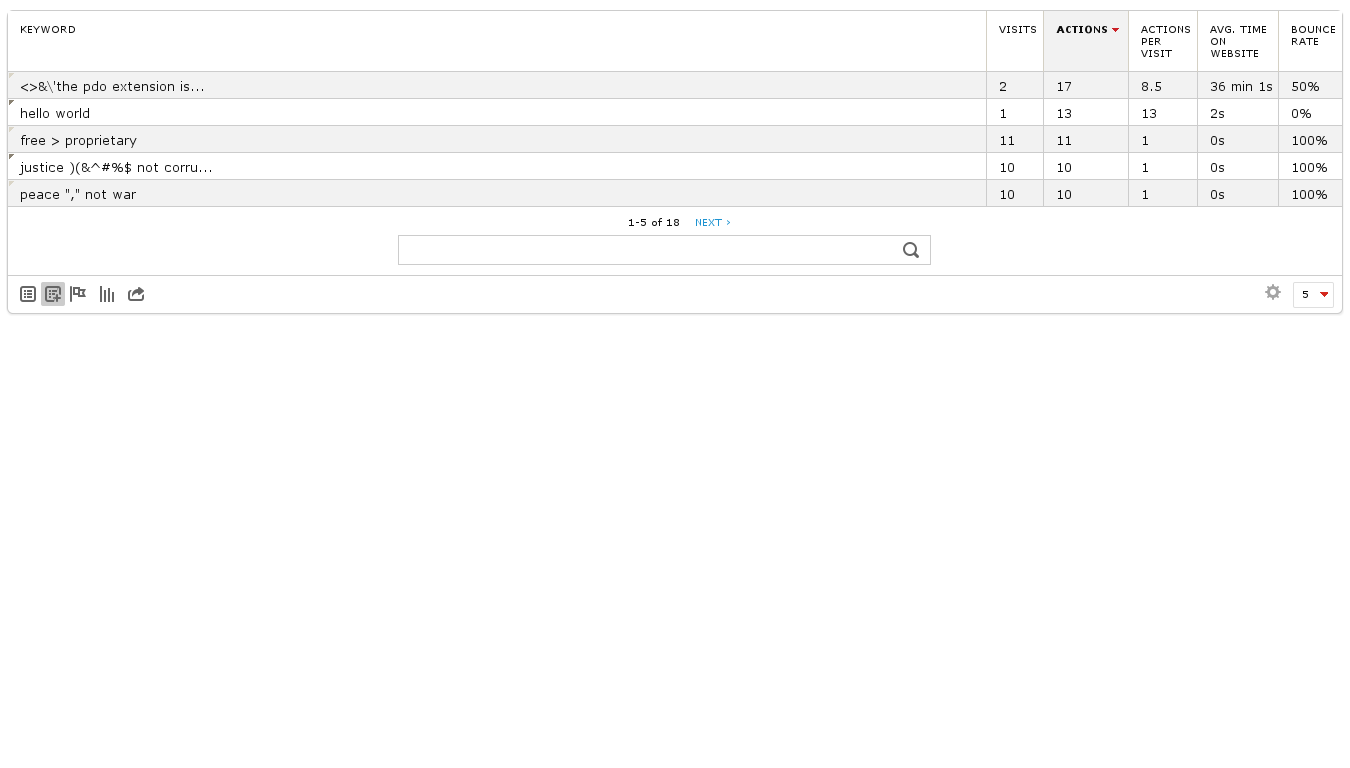
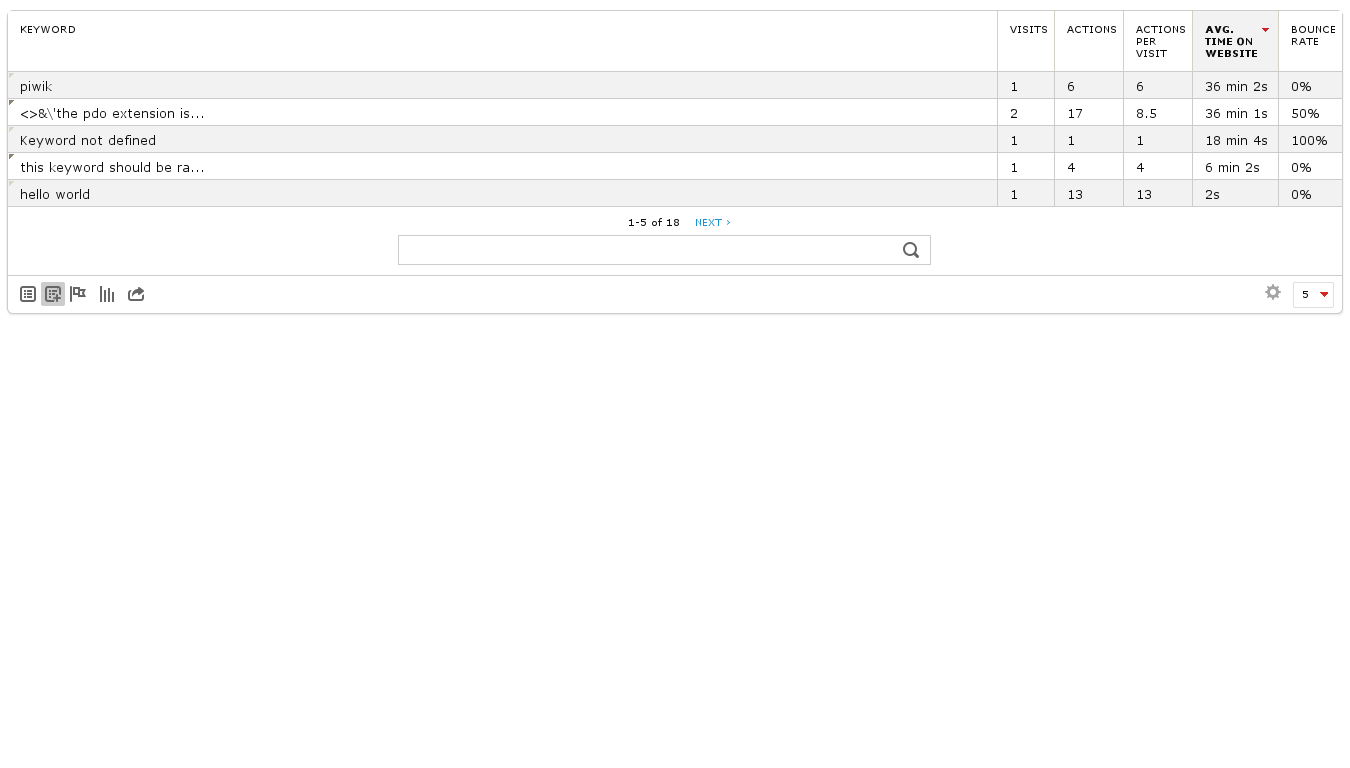
Refs #4189, test for processed column sort in ViewDataTableTest instead of UIIntegrationTest.

Changed region(s): [[0.7467, 0.0312, 0.9956, 0.1875], [0.0, 0.0938, 0.1244, 0.2812], [0.9644, 0.25, 0.9956, 0.2812]]

diff --git a/UIIntegrationTest.js b/UIIntegrationTest.js
@@ -258,13 +258,6 @@ describe("UIIntegrationTest", function () { // TODO: Rename to Piwik?
         }, done);
     });
 
-    it('should load the widgetized all columns table correctly w/ processed column sorted', function (done) {
-        expect.screenshot('widgetize_all_columns_table_sort_processed').to.be.capture(function (page) {
-            page.load("?" + widgetizeParams + "&" + generalParams + "&moduleToWidgetize=UserCountry&actionToWidgetize=getCountry"
-                    + "&viewDataTable=tableAllColumns&filter_sort_column=bounce_rate");
-        }, done);
-    });
-
     it('should load the widgetized evolution graph correctly', function (done) {
         expect.screenshot('widgetize_evolution_graph').to.be.capture(function (page) {
             page.load("?" + widgetizeParams + "&" + evolutionParams + "&moduleToWidgetize=UserCountry&actionToWidgetize=getCountry"

diff --git a/ViewDataTableTest.js b/ViewDataTableTest.js
@@ -27,13 +27,13 @@ describe("ViewDataTableTest", function () { // TODO: should remove Test suffix f
 
     it("should sort a column in descending order when column clicked initially", function (done) {
         expect.screenshot("2_column_sorted_desc").to.be.capture(function (page) {
-            page.click('th#nb_actions');
+            page.click('th#avg_time_on_site');
         }, done);
     });
 
     it("should sort a column in ascending order when column clicked second time", function (done) {
         expect.screenshot("3_column_sorted_asc").to.be.capture(function (page) {
-            page.click('th#nb_actions');
+            page.click('th#avg_time_on_site');
         }, done);
     });
 
